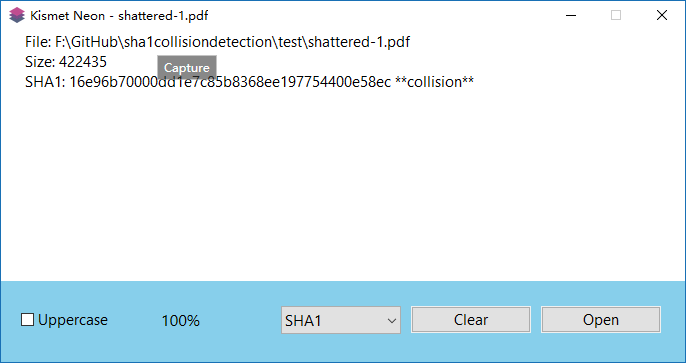
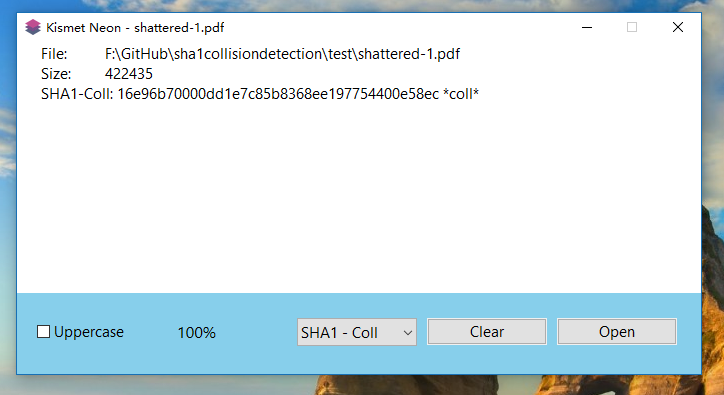
replace SHA1, update ReadMe.md

Changed region(s): [[0.0, 0.0, 1.0, 1.0], [0.2449, 0.8182, 0.3061, 0.9091]]

diff --git a/Kismet/SHA1DC.cpp b/Kismet/SHA1DC.cpp
@@ -1,8 +1,8 @@
 #include "stdafx.h"
 #include "Securehash.h"
-#include "../rhash/sha1.h"
+#include "../rhash/sha1detectcoll.h"
 
-bool SHA1Sum(const FilesumEm &fse) {
+bool SHA1DCSum(const FilesumEm &fse) {
 	char to_hex[] = "0123456789abcdef";
 	auto hFile = CreateFileW(fse.file.data(),
 		GENERIC_READ,
@@ -17,21 +17,21 @@ bool SHA1Sum(const FilesumEm &fse) {
 	}
 	LARGE_INTEGER li;
 	GetFileSizeEx(hFile, &li);
-	sha1_ctx ctx;
-	rhash_sha1_init(&ctx);
+	SHA1_CTX ctx;
+	SHA1DCInit(&ctx);
 	BYTE buffer[65536];
 	BYTE data[32];
 	DWORD dwRead;
 	int64_t cmsize = 0;
 	auto Ptr = reinterpret_cast<wchar_t *>(buffer);
 	_snwprintf_s(Ptr, sizeof(buffer) / 2, sizeof(buffer) / 2,
-		L"File:\t%s\r\nSize:\t%lld\r\nSHA1:\t", fse.file.data(), li.QuadPart);
+		L"File:\t%s\r\nSize:\t%lld\r\nSHA1-Coll: ", fse.file.data(), li.QuadPart);
 	fse.callback(kFilesumMessage, 0, Ptr);
 	for (;;) {
 		if (!ReadFile(hFile, buffer, sizeof(buffer), &dwRead, nullptr)) {
 			break;
 		}
-		rhash_sha1_update(&ctx, buffer, dwRead);
+		SHA1DCUpdate(&ctx, (const char*)buffer, dwRead);
 		cmsize += dwRead;
 		auto N = cmsize * 100 / li.QuadPart;
 		if (!fse.callback(kFilesumProgress, (uint32_t)N, L""))
@@ -43,13 +43,18 @@ bool SHA1Sum(const FilesumEm &fse) {
 			break;
 	}
 	CloseHandle(hFile);
-	rhash_sha1_final(&ctx, data);
+	bool detect = false;
+	if (SHA1DCFinal(data, &ctx) != 0)
+		detect = true;
 	std::wstring hex;
 	for (uint32_t i = 0; i < 20; i++) {
 		unsigned int val = data[i];
 		hex.push_back(to_hex[val >> 4]);
 		hex.push_back(to_hex[val & 0xf]);
 	}
-	fse.callback(kFilesumCompleted, 100, hex);
+	if (detect)
+		fse.callback(kFilesumCollCompleted, 100, hex);
+	else
+		fse.callback(kFilesumCompleted, 100, hex);
 	return true;
 }

diff --git a/Kismet/NeonWindow.cpp b/Kismet/NeonWindow.cpp
@@ -214,7 +214,7 @@ bool NeonWindow::FilesumInvoke(std::int32_t state, std::uint32_t pg, std::wstrin
 		if (Button_GetCheck(hCheck) == BST_CHECKED) {
 			std::transform(data.begin(), data.end(), data.begin(), std::toupper);
 		}
-		content.append(data).append(L" **collision**");
+		content.append(data).append(L" *coll*");
 		::SetWindowTextW(hContent, content.data());
 		break;
 	case kFilesumProgress:
@@ -232,6 +232,7 @@ inline bool InitializeComboHash(HWND hWnd) {
 	const wchar_t *hash[] = {
 		L"MD5",
 		L"SHA1",
+		L"SHA1 - Coll",
 		L"SHA224",
 		L"SHA256",
 		L"SHA384",
@@ -258,34 +259,37 @@ inline bool ComboHashValue(int i, FilesumEm &fse) {
 		fse.alm = kFilesumSHA1;
 		break;
 	case 2:
-		fse.alm = kFilesumSHA2;
-		fse.width = 224;
+		fse.alm = kFilesumSHA1DC;
 		break;
 	case 3:
 		fse.alm = kFilesumSHA2;
-		fse.width = 256;
+		fse.width = 224;
 		break;
 	case 4:
 		fse.alm = kFilesumSHA2;
-		fse.width = 384;
+		fse.width = 256;
 		break;
 	case 5:
 		fse.alm = kFilesumSHA2;
-		fse.width = 512;
+		fse.width = 384;
 		break;
 	case 6:
-		fse.alm = kFilesumSHA3;
-		fse.width = 224;
+		fse.alm = kFilesumSHA2;
+		fse.width = 512;
 		break;
 	case 7:
 		fse.alm = kFilesumSHA3;
-		fse.width = 256;
+		fse.width = 224;
 		break;
 	case 8:
 		fse.alm = kFilesumSHA3;
-		fse.width = 384;
+		fse.width = 256;
 		break;
 	case 9:
+		fse.alm = kFilesumSHA3;
+		fse.width = 384;
+		break;
+	case 10:
 		fse.alm = kFilesumSHA3;
 		fse.width = 512;
 		break;

diff --git a/Kismet/Securehash.cpp b/Kismet/Securehash.cpp
@@ -3,6 +3,7 @@
 
 bool MD5Sum(const FilesumEm &fse);
 bool SHA1Sum(const FilesumEm &fse);
+bool SHA1DCSum(const FilesumEm &fse);
 bool SHA2Sum(const FilesumEm &fse);
 bool SHA3Sum(const FilesumEm &fse);
 
@@ -12,6 +13,8 @@ bool KitmetSecureCore(const FilesumEm &fse) {
 		return MD5Sum(fse);
 	case kFilesumSHA1:
 		return SHA1Sum(fse);
+	case kFilesumSHA1DC:
+		return  SHA1DCSum(fse);
 	case kFilesumSHA2:
 		return SHA2Sum(fse);
 	case kFilesumSHA3:

diff --git a/Kismet/Securehash.h b/Kismet/Securehash.h
@@ -12,7 +12,8 @@
 
 enum FilesumAlm {
 	kFilesumMD5,
-	kFilesumSHA1,/// sha1 collision detection
+	kFilesumSHA1,
+	kFilesumSHA1DC,/// sha1 collision detection
 	kFilesumSHA2,
 	kFilesumSHA3,
 	kFilesumCRC32,

diff --git a/rhash/sha1.h b/rhash/sha1.h
@@ -1,7 +1,7 @@
 /* sha1.h */
 #ifndef SHA1_H
 #define SHA1_H
-#include "ustd.h"
+#include <stdint.h>
 
 #ifdef __cplusplus
 extern "C" {

diff --git a/ReadMe.md b/ReadMe.md
@@ -4,4 +4,17 @@
 ## SHA1 Collision Detection
 ![image](./docs/images/coll.png)
 
+SHA1 Collision
+
+![sha1 collision](./docs/images/sha1coll.png)
+
+## In Progress
+
+![in progress](./docs/images/progress.png)
+
+
+## Complete
+
+![complete](./docs/images/complete.png)
+
 WORKING IN PROGRESS
